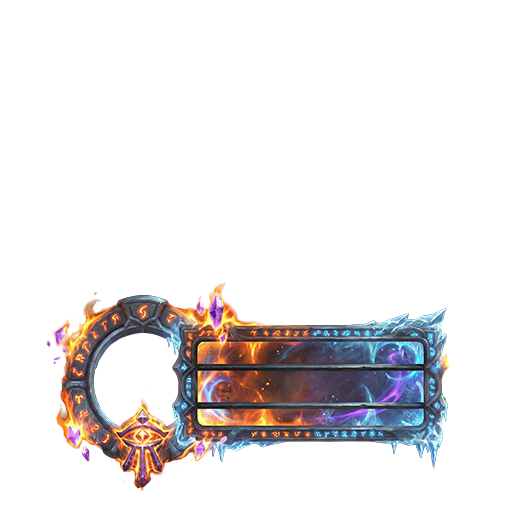
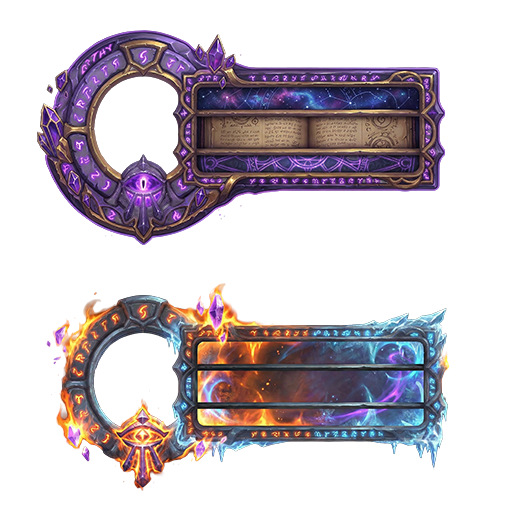
styles: Add mage specs frames and warrior frame

Changed region(s): [[0.0625, 0.0312, 0.875, 0.5]]

diff --git a/README.md b/README.md
@@ -1,7 +1,7 @@
 # EPF Custom Skins
 
 [![License: CC BY-NC-SA 4.0](https://img.shields.io/badge/License-CC%20BY--NC--SA%204.0-blue.svg)](https://creativecommons.org/licenses/by-nc-sa/4.0/)
-[![Version](https://img.shields.io/badge/Version-1.1.5-informational)](ElitePlayerFrame_Enhanced_CustomSkins.toc)
+[![Version](https://img.shields.io/badge/Version-1.1.6-informational)](ElitePlayerFrame_Enhanced_CustomSkins.toc)
 [![WoW](https://img.shields.io/badge/WoW-12.0%20(TWW)-orange)](https://worldofwarcraft.blizzard.com/)
 [![Lua](https://img.shields.io/badge/Lua-5.x-blue)](https://www.lua.org/)
 
